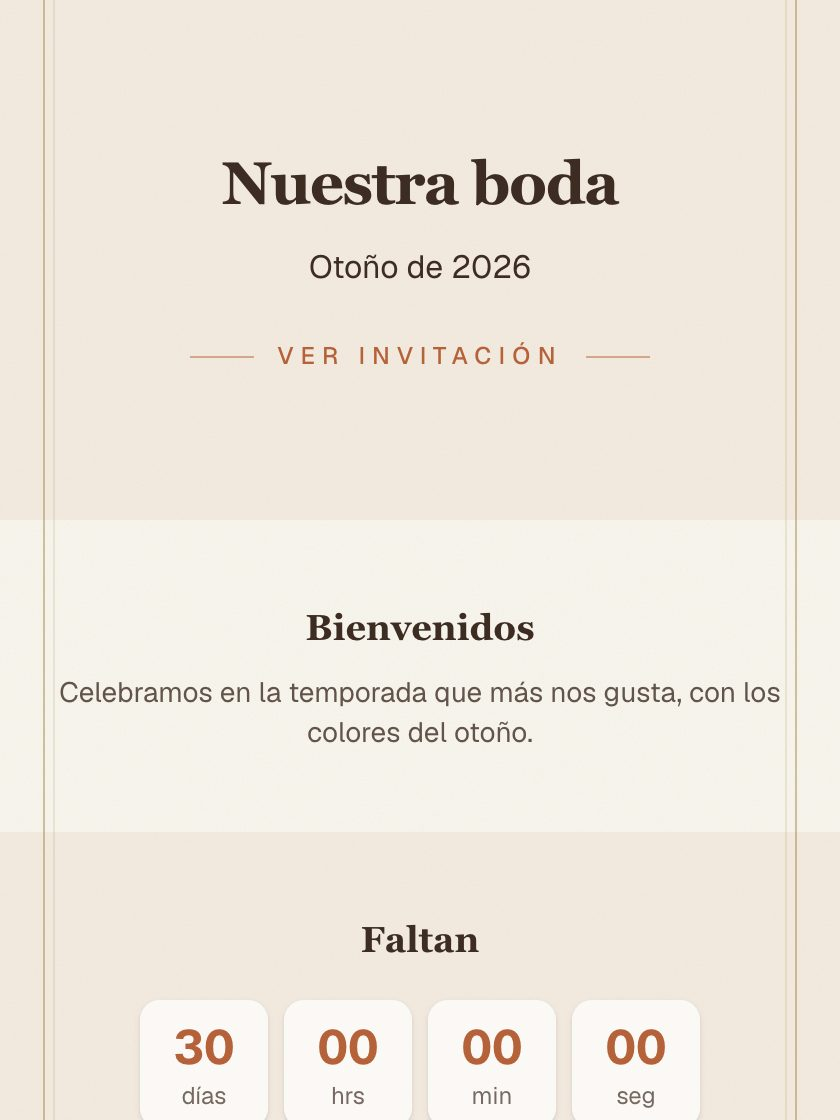
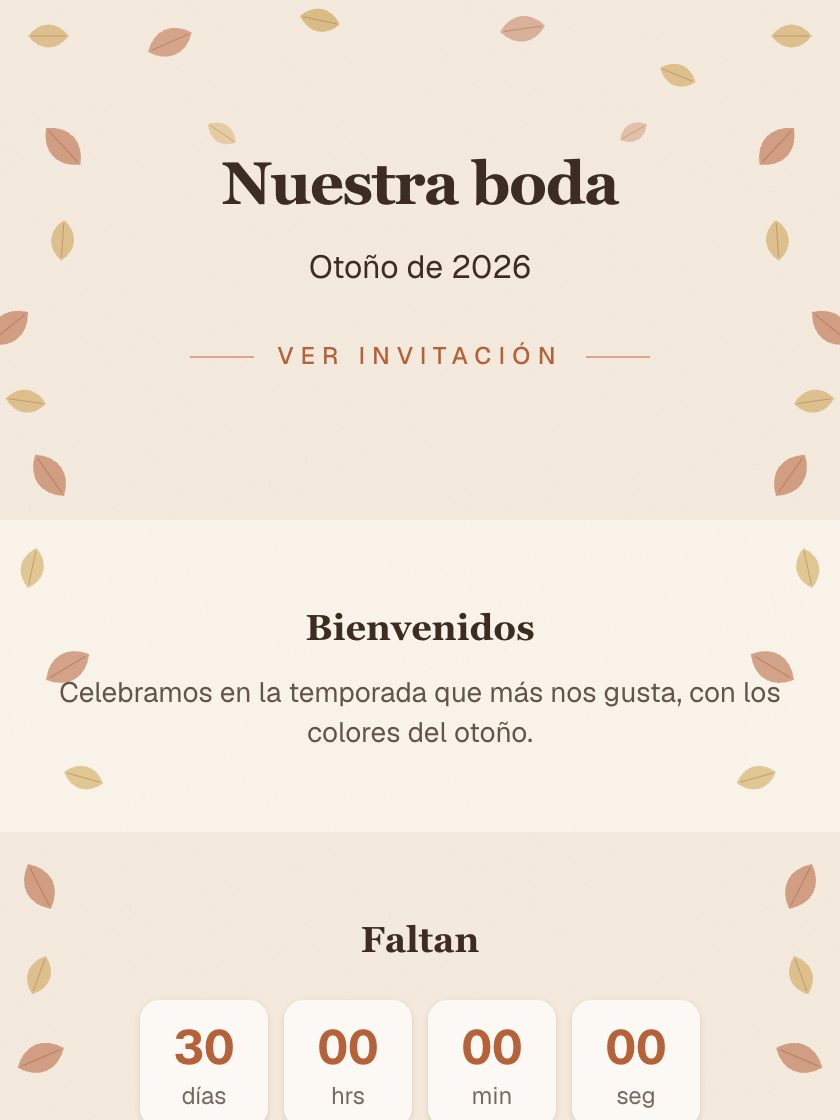
chore(arte): miniaturas de las seis bodas tras aplicar la 0040
Capturadas y MIRADAS: las seis muestran su arte propio y se distinguen entre
si. REVISION_MINIATURAS -> 202609091852.

Deja constancia de que la categoria NO esta cerrada, al contrario de lo que
dije al entregar la 0040: `boda-cinematografica`, `boda-elegante` y
`boda-minimalista` siguen compartiendo `foto/boda-marco-floral.jpg` y en la
hoja de contacto se ven practicamente iguales. Conte «las 6 con SVG viejo» y
llame a eso la categoria entera; Boda tiene 13.

diff --git a/src/lib/invitations/template-preview.ts b/src/lib/invitations/template-preview.ts
@@ -67,4 +67,4 @@ export const ESCALA_CAPTURA = 2;
  * optimizador y la del navegador, y evita tener que renombrar 50 archivos o
  * volver a escribir 50 URLs en la BD en cada regeneración.
  */
-export const REVISION_MINIATURAS = "202609091735";
+export const REVISION_MINIATURAS = "202609091852";
